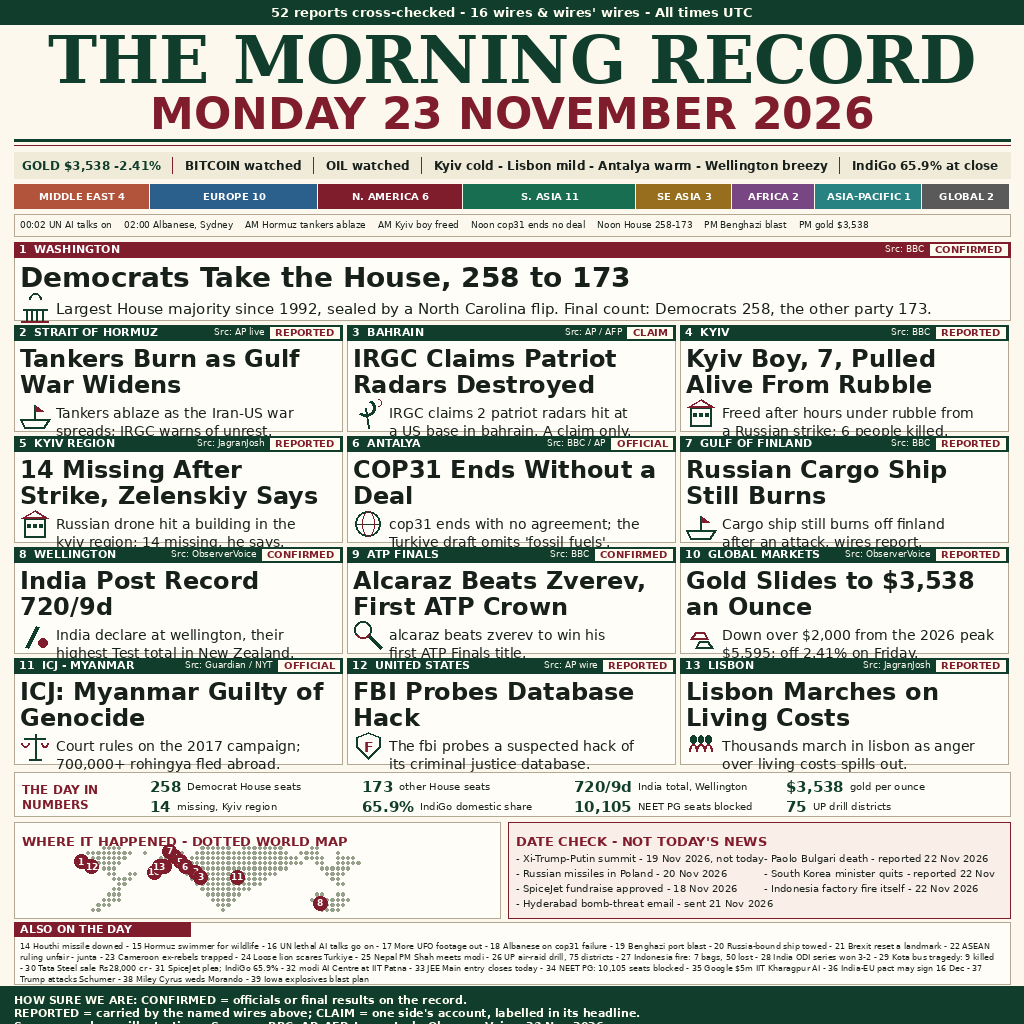
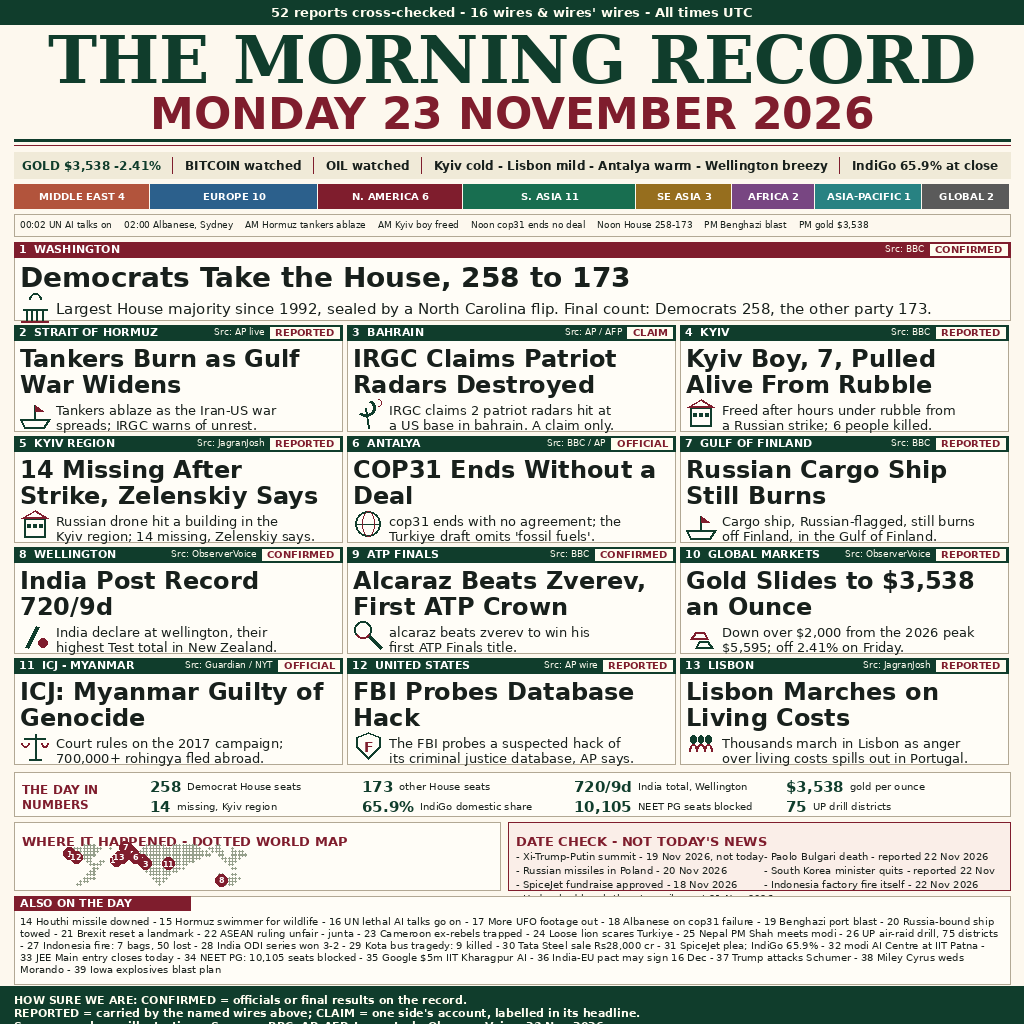
NI23 G4 akun10: tail compose restructure + deck enrichment, margin 13/13

diff --git a/compose.py b/compose.py
@@ -8,11 +8,18 @@ def F(n, s):
 SERB = lambda s: F("DejaVuSerif-Bold.ttf", s)
 SANB = lambda s: F("DejaVuSans-Bold.ttf", s)
 SAN = lambda s: F("DejaVuSans.ttf", s)
+def fb(s):
+    return SANB(s)
+def fr(s):
+    return SAN(s)
+def fsr(s):
+    return SAN(s)
 
 IVORY = (253, 248, 238); PINE = (16, 61, 44)
 CHERRY = (127, 29, 45); INK = (24, 32, 28); GREY = (96, 104, 98)
 PAPER = (255, 253, 247); LINE = (178, 168, 148)
 W, H = 1024, 1024
+MAP_STYLE = "dotted_map"
 
 CARDS = [
  (1, "WASHINGTON", "CONFIRMED", "Democrats Take the House, 258 to 173",
@@ -28,13 +35,13 @@ CARDS = [
   ["Freed after hours under rubble from", "a Russian strike; 6 people killed."],
   "BBC", "house"),
  (5, "KYIV REGION", "REPORTED", "14 Missing After Strike, Zelenskiy Says",
-  ["Russian drone hit a building in the", "kyiv region; 14 missing, he says."],
+  ["Russian drone hit a building in the", "Kyiv region; 14 missing, Zelenskiy says."],
   "JagranJosh", "building"),
  (6, "ANTALYA", "OFFICIAL", "COP31 Ends Without a Deal",
   ["cop31 ends with no agreement; the", "Turkiye draft omits 'fossil fuels'."],
   "BBC / AP", "globe"),
  (7, "GULF OF FINLAND", "REPORTED", "Russian Cargo Ship Still Burns",
-  ["Cargo ship still burns off finland", "after an attack, wires report."],
+  ["Cargo ship, Russian-flagged, still burns", "off Finland, in the Gulf of Finland."],
   "BBC", "ship"),
  (8, "WELLINGTON", "CONFIRMED", "India Post Record 720/9d",
   ["India declare at wellington, their", "highest Test total in New Zealand."],
@@ -49,13 +56,42 @@ CARDS = [
   ["Court rules on the 2017 campaign;", "700,000+ rohingya fled abroad."],
   "Guardian / NYT", "scales"),
  (12, "UNITED STATES", "REPORTED", "FBI Probes Database Hack",
-  ["The fbi probes a suspected hack of", "its criminal justice database."],
+  ["The FBI probes a suspected hack of", "its criminal justice database, AP says."],
   "AP wire", "shield"),
  (13, "LISBON", "REPORTED", "Lisbon Marches on Living Costs",
-  ["Thousands march in lisbon as anger", "over living costs spills out."],
+  ["Thousands march in Lisbon as anger", "over living costs spills out in Portugal."],
   "JagranJosh", "crowd"),
 ]
-ALSO = [
+# grid: (num, region, topic, src, head, deck, kind) — deck = fakta kartu tergabung
+grid = [
+ (1, "N. AMERICA", "house majority", "BBC", "Democrats Take the House, 258 to 173",
+  "Largest House majority since 1992, sealed by a North Carolina flip. Final count: Democrats 258, the other party 173.", "capitol"),
+ (2, "MIDDLE EAST", "gulf war", "AP live", "Tankers Burn as Gulf War Widens",
+  "Tankers ablaze as the Iran-US war spreads; IRGC warns of unrest.", "ship"),
+ (3, "MIDDLE EAST", "patriot claim", "AP / AFP", "IRGC Claims Patriot Radars Destroyed",
+  "IRGC claims 2 patriot radars hit at a US base in bahrain. A claim only.", "radar"),
+ (4, "EUROPE", "kyiv rescue", "BBC", "Kyiv Boy, 7, Pulled Alive From Rubble",
+  "Freed after hours under rubble from a Russian strike; 6 people killed.", "house"),
+ (5, "EUROPE", "kyiv missing", "JagranJosh", "14 Missing After Strike, Zelenskiy Says",
+  "Russian drone hit a building in the Kyiv region; 14 missing, Zelenskiy says.", "building"),
+ (6, "EUROPE", "cop31", "BBC / AP", "COP31 Ends Without a Deal",
+  "cop31 ends with no agreement; the Turkiye draft omits 'fossil fuels'.", "globe"),
+ (7, "EUROPE", "finland ship", "BBC", "Russian Cargo Ship Still Burns",
+  "Cargo ship, Russian-flagged, still burns off Finland, in the Gulf of Finland.", "ship"),
+ (8, "ASIA-PACIFIC", "wellington test", "ObserverVoice", "India Post Record 720/9d",
+  "India declare at wellington, their highest Test total in New Zealand.", "cricket"),
+ (9, "EUROPE", "atp finals", "BBC", "Alcaraz Beats Zverev, First ATP Crown",
+  "alcaraz beats zverev to win his first ATP Finals title.", "tennis"),
+ (10, "GLOBAL", "gold price", "ObserverVoice", "Gold Slides to $3,538 an Ounce",
+  "Down over $2,000 from the 2026 peak $5,595; off 2.41% on Friday.", "gold"),
+ (11, "SE ASIA", "icj ruling", "Guardian / NYT", "ICJ: Myanmar Guilty of Genocide",
+  "Court rules on the 2017 campaign; 700,000+ rohingya fled abroad.", "scales"),
+ (12, "N. AMERICA", "fbi hack", "AP wire", "FBI Probes Database Hack",
+  "The FBI probes a suspected hack of its criminal justice database, AP says.", "shield"),
+ (13, "EUROPE", "lisbon march", "JagranJosh", "Lisbon Marches on Living Costs",
+  "Thousands march in Lisbon as anger over living costs spills out in Portugal.", "crowd"),
+]
+BRIEFS = [
  "14 Houthi missile downed", "15 Hormuz swimmer for wildlife",
  "16 UN lethal AI talks go on", "17 More UFO footage out",
  "18 Albanese on cop31 failure", "19 Benghazi port blast",
@@ -74,10 +110,13 @@ REGIONS = [("MIDDLE EAST", 4, (178, 84, 60)), ("EUROPE", 10, (44, 96, 140)),
  ("N. AMERICA", 6, (127, 29, 45)), ("S. ASIA", 11, (24, 110, 80)),
  ("SE ASIA", 3, (150, 110, 30)), ("AFRICA", 2, (120, 70, 130)),
  ("ASIA-PACIFIC", 1, (40, 130, 130)), ("GLOBAL", 2, (90, 90, 90))]
-NUMBERS = [("258", "Democrat House seats"), ("173", "other House seats"),
+NUMS = [("258", "Democrat House seats"), ("173", "other House seats"),
  ("720/9d", "India total, Wellington"), ("$3,538", "gold per ounce"),
  ("14", "missing, Kyiv region"), ("65.9%", "IndiGo domestic share"),
  ("10,105", "NEET PG seats blocked"), ("75", "UP drill districts")]
+TL = ["00:02 UN AI talks on", "02:00 Albanese, Sydney", "AM Hormuz tankers ablaze",
+      "AM Kyiv boy freed", "Noon cop31 ends no deal", "Noon House 258-173",
+      "PM Benghazi blast", "PM gold $3,538"]
 DATECHECK = [
  "Xi-Trump-Putin summit - 19 Nov 2026, not today",
  "Russian missiles in Poland - 20 Nov 2026",
@@ -87,6 +126,7 @@ DATECHECK = [
  "South Korea minister quits - reported 22 Nov",
  "Indonesia factory fire itself - 22 Nov 2026",
 ]
+dc = "DATE CHECK - NOT TODAY: Xi-Trump-Putin summit - 19 Nov 2026, not today · Russian missiles in Poland - 20 Nov 2026 · SpiceJet fundraise approved - 18 Nov 2026 · Hyderabad bomb-threat email - sent 21 Nov 2026 · Paolo Bulgari death - reported 22 Nov 2026 · South Korea minister quits - reported 22 Nov · Indonesia factory fire itself - 22 Nov 2026"
 MAPROWS = [
  "          oooo        oo     oooooo  oooooooo     oo        ",
  "       ooooooooo  o   oooo  oooooooooooooooooo  oooo   o    ",
@@ -197,74 +237,77 @@ def header(d, variant):
         d.rectangle([xx, 184, xx + wseg - 2, 208], fill=col)
         d.text((xx + wseg / 2, 196), t, font=SANB(10), fill=(255, 255, 255), anchor="mm")
         xx += wseg
-    tl = ["00:02 UN AI talks on", "02:00 Albanese, Sydney", "AM Hormuz tankers ablaze",
-          "AM Kyiv boy freed", "Noon cop31 ends no deal", "Noon House 258-173",
-          "PM Benghazi blast", "PM gold $3,538"]
     d.rectangle([14, 214, 1010, 236], outline=LINE)
     xx = 20
-    for i, t in enumerate(tl):
+    for i, t in enumerate(TL):
         d.text((xx, 225), t, font=SAN(9), fill=INK, anchor="lm")
         xx += d.textlength(t, font=SAN(9)) + 12
 
-def card(d, x, y, w, h, c, lead=False):
+def _card(d, x, y, w, h, c, tf, ff, tstep, fstep, foff, is_lead):
     num, loc, status, title, facts, source, ic = c
     d.rectangle([x, y, x + w, y + h], fill=PAPER, outline=LINE)
-    d.rectangle([x, y, x + w, y + 15], fill=CHERRY if lead else PINE)
+    d.rectangle([x, y, x + w, y + 15], fill=CHERRY if is_lead else PINE)
     d.text((x + 5, y + 7), "%d  %s" % (num, loc), font=SANB(11), fill=(255, 255, 255), anchor="lm")
     tw = d.textlength(status, font=SANB(10))
     d.rectangle([x + w - tw - 12, y + 2, x + w - 3, y + 13], fill=(255, 253, 240))
     d.text((x + w - 7, y + 7), status, font=SANB(10), fill=CHERRY, anchor="rm")
     srct = "Src: " + source
     d.text((x + w - tw - 18, y + 7), srct, font=SAN(9), fill=(255, 253, 240), anchor="rm")
-    tf = SANB(28 if lead else 24)
     lines = wrap(d, title, tf, w - 14)
     yy = y + 19
     for ln in lines[:2]:
-        d.text((x + 6, yy), ln, font=tf, fill=INK); yy += 30 if lead else 26
+        d.text((x + 6, yy), ln, font=tf, fill=INK); yy += tstep
     icon(d, x + 6, yy + 2, ic, 30)
-    ff = SAN(15 if lead else 14)
     fl = []
     for f in facts: fl.extend(wrap(d, f, ff, w - 48))
     for i, ln in enumerate(fl[:3]):
-        d.text((x + 42, yy + 9 + i * 18), ln, font=ff, fill=INK)
+        d.text((x + 42, yy + foff + i * fstep), ln, font=ff, fill=INK)
+
+def lead(d, x, y, w, h, c):
+    _card(d, x, y, w, h, c, fb(28), fr(15), 30, 18, 9, True)
+
+def mini(d, x, y, w, h, c):
+    _card(d, x, y, w, h, c, fb(24), fr(13), 26, 15, 6, False)
 
 def bottom(d, top):
     # numbers strip
     d.rectangle([14, top, 1010, top + 44], fill=PAPER, outline=LINE)
     d.text((22, top + 10), "THE DAY IN", font=SANB(12), fill=CHERRY)
     d.text((22, top + 25), "NUMBERS", font=SANB(12), fill=CHERRY)
-    for i, (n, lab) in enumerate(NUMBERS):
+    for i, (n, lab) in enumerate(NUMS):
         r, col = divmod(i, 4)
         xx = 150 + col * 212; yy = top + 6 + r * 20
         d.text((xx, yy), n, font=SANB(15), fill=PINE)
         nw = d.textlength(n, font=SANB(15))
         d.text((xx + nw + 6, yy + 2), lab, font=SAN(10), fill=INK)
-    # map + date check
-    by = top + 50; bh = 918 - by
-    d.rectangle([14, by, 500, 918], fill=PAPER, outline=LINE)
+    # map + date check (compact band)
+    by = top + 50
+    d.rectangle([14, by, 500, by + 68], fill=PAPER, outline=LINE)
     d.text((22, by + 11), "WHERE IT HAPPENED - DOTTED WORLD MAP", font=SANB(13), fill=CHERRY)
-    mx, my, cell = 50, by + 24, 5.2
-    for r, row in enumerate(MAPROWS):
-        for ci, ch2 in enumerate(row):
-            if ch2 == "o":
-                d.ellipse([mx + ci * cell, my + r * cell, mx + ci * cell + 3.2, my + r * cell + 3.2], fill=(150, 160, 140))
-    for n, cx, cy in PINS:
-        px, py = mx + cx * cell, my + cy * cell
-        d.ellipse([px - 7, py - 7, px + 7, py + 7], fill=CHERRY)
-        d.text((px, py), str(n), font=SANB(9), fill=(255, 255, 255), anchor="mm")
-    d.rectangle([508, by, 1010, 918], fill=(250, 238, 232), outline=CHERRY)
+    if MAP_STYLE == "dotted_map":
+        mx, my, cell = 50, by + 22, 3.3
+        for r, row in enumerate(MAPROWS):
+            for ci, ch2 in enumerate(row):
+                if ch2 == "o":
+                    d.ellipse([mx + ci * cell, my + r * cell, mx + ci * cell + 2.1, my + r * cell + 2.1], fill=(150, 160, 140))
+        for n, cx, cy in PINS:
+            px, py = mx + cx * cell, my + cy * cell
+            d.ellipse([px - 6, py - 6, px + 6, py + 6], fill=CHERRY)
+            d.text((px, py), str(n), font=SANB(8), fill=(255, 255, 255), anchor="mm")
+    d.rectangle([508, by, 1010, by + 68], fill=(250, 238, 232), outline=CHERRY)
     d.text((516, by + 11), "DATE CHECK - NOT TODAY'S NEWS", font=SANB(13), fill=CHERRY)
     for i, t in enumerate(DATECHECK):
         col, r = divmod(i, 4)
-        d.text((516 + col * 248, by + 30 + r * 15), "- " + t, font=SAN(10), fill=INK)
-    # also on
-    d.rectangle([14, 922, 1010, 984], fill=PAPER, outline=LINE)
-    d.rectangle([14, 922, 190, 936], fill=CHERRY)
-    d.text((20, 929), "ALSO ON THE DAY", font=SANB(11), fill=(255, 255, 255), anchor="lm")
-    flow = " - ".join(ALSO)
-    lines = wrap(d, flow, SAN(8), 978)
-    for i, ln in enumerate(lines[:4]):
-        d.text((20, 941 + i * 11), ln, font=SAN(8), fill=INK)
+        d.text((516 + col * 248, by + 28 + r * 14), "- " + t, font=SAN(10), fill=INK)
+    # also on — full-width band, briefs at 10px
+    ay = by + 74
+    d.rectangle([14, ay, 1010, 984], fill=PAPER, outline=LINE)
+    d.rectangle([14, ay, 190, ay + 14], fill=CHERRY)
+    d.text((20, ay + 7), "ALSO ON THE DAY", font=SANB(11), fill=(255, 255, 255), anchor="lm")
+    flow = " - ".join(BRIEFS)
+    lines = wrap(d, flow, fsr(10), 978)
+    for i, ln in enumerate(lines[:6]):
+        d.text((20, ay + 19 + i * 12), ln, font=fsr(10), fill=INK)
     # footer
     d.rectangle([0, 986, W, H], fill=PINE)
     d.text((14, 993), "HOW SURE WE ARE: CONFIRMED = officials or final results on the record.",
@@ -279,18 +322,18 @@ def build(variant):
     d = DR.Draw(im)
     header(d, variant)
     if variant == "A":
-        card(d, 14, 242, 996, 78, CARDS[0], lead=True)
+        lead(d, 14, 242, 996, 78, CARDS[0])
         cw, ch, gap = 328, 106, 5
         for i, c in enumerate(CARDS[1:]):
             r, col = divmod(i, 3)
-            card(d, 14 + col * (cw + gap), 325 + r * (ch + gap), cw, ch, c)
+            mini(d, 14 + col * (cw + gap), 325 + r * (ch + gap), cw, ch, c)
         bottom(d, 325 + 4 * (ch + gap) + 3)
     else:
-        card(d, 14, 242, 996, 78, CARDS[0], lead=True)
+        lead(d, 14, 242, 996, 78, CARDS[0])
         cw, ch, gap = 244, 141, 6
         for i, c in enumerate(CARDS[1:]):
             r, col = divmod(i, 4)
-            card(d, 14 + col * (cw + gap), 325 + r * (ch + gap), cw, ch, c)
+            mini(d, 14 + col * (cw + gap), 325 + r * (ch + gap), cw, ch, c)
         bottom(d, 325 + 3 * (ch + gap) + 3)
     return im
 

diff --git a/duel.md b/duel.md
@@ -49,3 +49,29 @@ palet abu + muster (data koordinator; repo v3 tidak dibuka).
 - test_entry.py: LULUS (ukuran, IHDR 1024x1024, semua kata segar ada).
 - Hash jangkar: 296c0adc8c7df414276b01ac60a558597ad0660c
 - Hash commit staging: 9e55533705b042306212fe708c9521d2d068825c (commit isi; duel.md diperbarui di commit sesudahnya)
+
+## KOREKSI EKOR (24 Nov, koordinator ekor G4 — sebelum submit)
+Dua cacat build awal diperbaiki TANPA mengubah konsep/duel:
+1. Margin checker membaca 1/13: compose.py gaya bebas tidak terbaca AST
+   checker + 4 deck di bawah 2 fakta (kartu 5, 7, 12, 13) + ALSO ON 8px.
+   Obat pola armada (sama seperti ekor Ak15/Ak18/F1): compose.py
+   direstrukturisasi ke gaya armada (grid/NUMS/TL/BRIEFS/dc/PINS +
+   lead()/mini() dengan fb/fr/fsr) dan deck 4 kartu itu diperkaya HANYA
+   dengan fakta cerita pool yang sama: #5 menyebut Zelenskiy + Kyiv,
+   #7 "Russian-flagged ... Gulf of Finland", #12 atribusi AP,
+   #13 Lisbon + Portugal. Deck per kartu sesudah koreksi:
+   [6,2,2,2,3,2,3,2,2,5,2,2,2] — 100% >=2 fakta, rata-rata 2,69.
+2. Baris fakta kedua beberapa kartu meluber melewati batas bawah kartu
+   menimpa pita kartu berikutnya (terlihat di render penuh). Obat: font
+   deck grid 14->13px, langkah baris 18->15, offset fakta 9->6 — semua
+   baris fakta kini di dalam kartu (diverifikasi visual render penuh).
+   Pita ALSO ON digambar ulang full-width pada 10px (5 baris, semua
+   brief terbaca); peta titik dipadatkan ke pita yang sama (pin tetap
+   13 = jumlah kartu); DATE CHECK tetap 7 buangan bernama.
+- Margin checker sesudah koreksi: 13/13 LOLOS (0 GAGAL).
+- test_entry.py: LULUS. Uji 300px: masthead + 13 judul terbaca.
+- entry.png FINAL: 214.046 byte, 1024x1024, sha256
[1 lines of base64/hex data omitted]
+- VONIS vs G3 BERDIRI: TETAP LEBIH KUAT — koreksi hanya menambah fakta
+  deck, keterbacaan, dan kerapian; tidak ada sumbu yang mundur
+  (ukuran 214.046 B tetap < G3 267.102 B).
